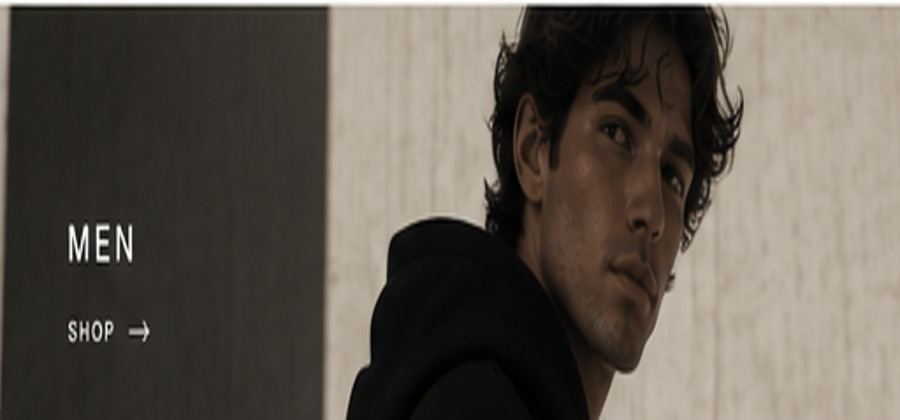
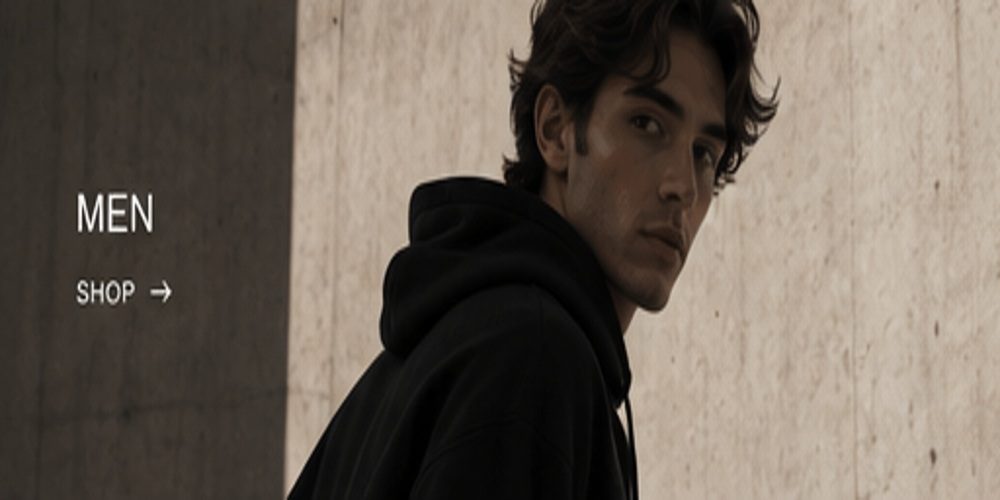
Add files via upload

diff --git a/styles.css b/styles.css
@@ -1,1 +1,1 @@
-*{box-sizing:border-box}html{scroll-behavior:smooth}body{margin:0;background:#f5f4ef;color:#0b0b0b;font-family:Arial,Helvetica,sans-serif}a{text-decoration:none;color:inherit}button{font:inherit}header{height:64px;padding:0 3vw;display:grid;grid-template-columns:1fr 2fr 1fr;align-items:center;background:#f5f4ef;position:sticky;top:0;z-index:30}.brand{font-size:19px;font-weight:900;letter-spacing:6px}nav{display:flex;justify-content:center;gap:28px;font-size:9px;letter-spacing:1.2px}.tools{display:flex;justify-content:flex-end;gap:18px}.tools button{border:0;background:none;font-size:9px;letter-spacing:1px}.hamb{font-size:16px!important}.hero{height:calc(100vh - 64px);min-height:650px;position:relative;background:#222;overflow:hidden}.hero>img{width:100%;height:100%;object-fit:cover;object-position:center}.hero:after{content:"";position:absolute;inset:0;background:linear-gradient(90deg,#0009,transparent 48%,#0001)}.overlay{position:absolute;z-index:2;left:11.5%;top:48%;transform:translateY(-50%);color:white}.overlay small{font-size:8px;letter-spacing:2px}.overlay h1{font-weight:400;font-size:clamp(58px,5vw,96px);line-height:.87;letter-spacing:-4px;margin:18px 0}.overlay p{font-size:9px;letter-spacing:2px}.overlay a{display:inline-block;background:white;color:#111;padding:15px 30px;margin-top:16px;font-size:9px;letter-spacing:1px}.intro{padding:65px 7vw;display:grid;grid-template-columns:2fr 1fr;align-items:end}.intro h2{font-size:clamp(35px,3.4vw,62px);line-height:.95;font-weight:400;letter-spacing:-2px;margin:0}.intro p{font-size:10px;line-height:1.7}.shop{padding:20px 2vw 75px}.shop-title{display:flex;justify-content:space-between;align-items:center}.shop-title h2{font-size:18px;letter-spacing:1px}.shop-title a{font-size:9px}.products{display:grid;grid-template-columns:repeat(6,1fr);gap:6px}.products article{position:relative}.products img{display:block;width:100%;height:330px;object-fit:cover;background:#ddd}.products article>div{display:flex;justify-content:space-between;padding:11px 3px 4px;font-size:9px}.add{position:absolute;right:9px;bottom:42px;border:0;background:white;padding:9px 11px;font-size:8px;opacity:0;transition:.2s}.products article:hover .add{opacity:1}.categories{display:grid;grid-template-columns:repeat(3,1fr);height:520px}.categories a{background-size:cover;background-position:center;position:relative;display:flex;align-items:flex-end;padding:35px;color:white}.categories a:after{content:"";position:absolute;inset:0;background:#0004}.categories span{position:relative;z-index:2;font-size:24px;letter-spacing:3px}.categories small{display:block;font-size:8px;margin-top:14px;letter-spacing:2px}.manifesto{background:#111;color:#f5f4ef;padding:120px 5vw}.manifesto small{letter-spacing:3px;font-size:8px}.manifesto h2{font-size:clamp(70px,9vw,160px);line-height:.8;letter-spacing:-7px;margin:35px 0 0}footer{padding:45px 3vw;display:grid;grid-template-columns:2fr 1fr 1fr;align-items:end;min-height:140px;font-size:9px;letter-spacing:1px}footer b{font-size:28px;letter-spacing:6px}@media(max-width:1100px){.products{grid-template-columns:repeat(3,1fr)}.products img{height:420px}}@media(max-width:800px){header{grid-template-columns:1fr 1fr}nav{display:none}.tools button:not(.hamb):not(:nth-last-child(2)){display:none}.intro{grid-template-columns:1fr;gap:30px}.categories{grid-template-columns:1fr;height:auto}.categories a{height:420px}.overlay{left:7%}.products{grid-template-columns:repeat(2,1fr)}footer{grid-template-columns:1fr;gap:20px}}@media(max-width:520px){.hero{min-height:650px}.overlay h1{font-size:56px}.products{grid-template-columns:1fr}.products img{height:auto}.intro{padding:60px 20px}.manifesto{padding:90px 20px}.manifesto h2{font-size:58px;letter-spacing:-4px}}
+*{box-sizing:border-box}html{scroll-behavior:smooth}body{margin:0;background:#f5f4ef;color:#090909;font-family:Arial,sans-serif}a{text-decoration:none;color:inherit;cursor:pointer}header{height:62px;padding:0 5%;display:grid;grid-template-columns:1fr 2fr 1fr;align-items:center;position:sticky;top:0;z-index:10;background:#f5f4ef}.brand{font-size:18px;font-weight:900;letter-spacing:6px}nav{display:flex;justify-content:center;gap:28px;font-size:9px}.tools{text-align:right;font-size:9px}.hero{height:calc(100vh - 62px);min-height:650px;position:relative;overflow:hidden;background:#222;color:#fff}.hero>img{width:100%;height:100%;object-fit:cover;object-position:center}.hero:after{content:"";position:absolute;inset:0;background:linear-gradient(90deg,#0008,transparent 52%,#0002)}.copy{position:absolute;z-index:2;left:5.2%;top:46%;transform:translateY(-50%)}.copy small{font-size:9px;letter-spacing:1px}.copy h1{font-size:clamp(62px,5vw,100px);font-weight:400;line-height:.9;letter-spacing:-4px;margin:20px 0}.copy p{font-size:10px;letter-spacing:1px}.copy a{display:inline-block;background:#fff;color:#111;padding:15px 24px;margin-top:15px;font-size:10px}.built{position:absolute;z-index:2;right:7%;bottom:11%;line-height:1.5;font-size:13px}.intro{padding:42px 5%;display:grid;grid-template-columns:2fr 1fr;align-items:center}.intro h2{font-size:clamp(32px,2.7vw,52px);font-weight:400;line-height:.95;letter-spacing:-2px}.intro p,.intro a{font-size:9px;line-height:1.7}.new{padding:10px 2.5% 35px}.title{display:flex;justify-content:space-between;align-items:center}.title h2{font-size:17px}.title a{font-size:8px}.products{display:grid;grid-template-columns:repeat(6,1fr);gap:7px}.products article{position:relative}.products img{width:100%;height:230px;object-fit:cover;display:block}.products p,.products b{font-size:8px;margin:8px 0 0;display:block}.products button{position:absolute;right:8px;top:195px;width:27px;height:27px;border:0;border-radius:50%;background:#fff;font-size:17px;cursor:pointer}.cats{display:grid;grid-template-columns:repeat(3,1fr);height:430px}.cats a{background-size:cover;background-position:center;position:relative;padding:36px;color:#fff;display:flex;align-items:end}.cats a:after{content:"";position:absolute;inset:0;background:#0003}.cats span{position:relative;z-index:2;font-size:22px}.cats small{display:block;font-size:9px;margin-top:14px}.end{padding:110px 5%;background:#111;color:#f5f4ef}.end small{font-size:8px;letter-spacing:3px}.end h2{font-size:clamp(65px,9vw,155px);line-height:.8;letter-spacing:-7px;margin:30px 0 0}footer{height:140px;padding:40px 4%;display:grid;grid-template-columns:2fr 1fr 1fr;align-items:end;font-size:8px}footer b{font-size:27px;letter-spacing:6px}@media(max-width:1000px){nav{display:none}header{grid-template-columns:1fr 1fr}.products{grid-template-columns:repeat(3,1fr)}.products img{height:340px}.cats{height:auto;grid-template-columns:1fr}.cats a{height:400px}}@media(max-width:600px){.tools{font-size:0}.tools:after{content:"BAG (" attr(data-bag) ")　☰";font-size:9px}.hero{min-height:650px}.copy{left:7%}.copy h1{font-size:58px}.intro{grid-template-columns:1fr}.products{grid-template-columns:1fr 1fr}.products img{height:280px}.end h2{font-size:57px;letter-spacing:-4px}footer{grid-template-columns:1fr;gap:16px;height:auto}}

diff --git a/index.html b/index.html
@@ -1,17 +1,15 @@
-<!doctype html><html lang="en"><head><meta charset="utf-8"><meta name="viewport" content="width=device-width,initial-scale=1">
-<title>MILCOLK — The New Uniform</title><link rel="stylesheet" href="styles.css"></head><body>
-<header><a class="brand" href="#">MILCOLK</a><nav><a href="#new">NEW IN</a><a href="#men">MEN</a><a href="#women">WOMEN</a><a href="#essentials">ESSENTIALS</a><a href="#story">COLLECTIONS</a></nav><div class="tools"><button>SEARCH</button><button>ACCOUNT</button><button>BAG (<span id="bag">0</span>)</button><button class="hamb">☰</button></div></header>
-<section class="hero"><img src="assets/hero.jpg" alt="MILCOLK The New Uniform"><div class="overlay"><small>FALL / WINTER 2026</small><h1>THE NEW<br>UNIFORM</h1><p>CLOTHING FOR A CLEARER MIND.</p><a href="#new">SHOP NOW →</a></div></section>
-<section class="intro" id="story"><h2>Designed for the everyday.<br>Defined by identity.</h2><p>MILCOLK is a modern clothing label focused on quality, simplicity and purpose.<br>Less noise, more identity.</p></section>
-<section id="new" class="shop"><div class="shop-title"><h2>NEW IN</h2><a href="#">VIEW ALL →</a></div>
-<div class="products">
-<article><img src="assets/product-1.jpg"><div><span>ESSENTIAL HOODIE</span><b>$85</b></div><button class="add">ADD +</button></article>
-<article><img src="assets/product-2.jpg"><div><span>CLASSIC TEE</span><b>$45</b></div><button class="add">ADD +</button></article>
-<article><img src="assets/product-3.jpg"><div><span>SIGNATURE SWEATPANTS</span><b>$75</b></div><button class="add">ADD +</button></article>
-<article><img src="assets/product-4.jpg"><div><span>ESSENTIAL CAP</span><b>$35</b></div><button class="add">ADD +</button></article>
-<article><img src="assets/product-5.jpg"><div><span>LIGHTWEIGHT JACKET</span><b>$120</b></div><button class="add">ADD +</button></article>
-<article><img src="assets/product-6.jpg"><div><span>KNIT SWEATER</span><b>$95</b></div><button class="add">ADD +</button></article>
+<!doctype html><html lang="en"><head><meta charset="utf-8"><meta name="viewport" content="width=device-width,initial-scale=1"><title>MILCOLK — The New Uniform</title><link rel="stylesheet" href="styles.css"></head><body>
+<header><a class="brand">MILCOLK</a><nav><a href="#new">NEW IN</a><a href="#men">MEN</a><a href="#women">WOMEN</a><a href="#essentials">ESSENTIALS</a><a href="#collections">COLLECTIONS</a></nav><div class="tools">⌕ SEARCH　♙ ACCOUNT　♧ BAG (<span id="bag">0</span>)　☰</div></header>
+<section class="hero"><img src="assets/hero.jpg"><div class="copy"><small>FALL WINTER 2026</small><h1>THE NEW<br>UNIFORM</h1><p>CLOTHING FOR A CLEARER MIND.</p><a href="#new">SHOP NOW　→</a></div><div class="built">BUILT<br>DIFFERENT.<br>FOR MORE.</div></section>
+<section class="intro"><h2>Designed for the everyday.<br>Defined by identity.</h2><div><p>MILCOLK is a modern clothing label focused on<br>quality, simplicity and purpose. Less noise, more identity.</p><a href="#collections">—　OUR STORY　→</a></div></section>
+<section id="new" class="new"><div class="title"><h2>NEW IN</h2><a>VIEW ALL　→</a></div><div class="products">
+<article><img src="assets/product1.jpg"><button>+</button><p>ESSENTIAL HOODIE</p><b>$85</b></article>
+<article><img src="assets/product2.jpg"><button>+</button><p>CLASSIC TEE</p><b>$45</b></article>
+<article><img src="assets/product3.jpg"><button>+</button><p>SIGNATURE SWEATPANTS</p><b>$75</b></article>
+<article><img src="assets/product4.jpg"><button>+</button><p>ESSENTIAL CAP</p><b>$35</b></article>
+<article><img src="assets/product5.jpg"><button>+</button><p>LIGHTWEIGHT JACKET</p><b>$120</b></article>
+<article><img src="assets/product6.jpg"><button>+</button><p>KNIT SWEATER</p><b>$95</b></article>
 </div></section>
-<section class="categories"><a id="men" style="background-image:url('assets/men.jpg')"><span>MEN<small>SHOP →</small></span></a><a id="women" style="background-image:url('assets/women.jpg')"><span>WOMEN<small>SHOP →</small></span></a><a id="essentials" style="background-image:url('assets/essentials.jpg')"><span>ESSENTIALS<small>SHOP →</small></span></a></section>
-<section class="manifesto"><small>MILCOLK® / NEW YORK / 2026</small><h2>LESS NOISE.<br>MORE IDENTITY.</h2></section>
-<footer><b>MILCOLK</b><p>CLOTHING FOR A BRIGHTER YOU</p><p>INSTAGRAM &nbsp; TIKTOK &nbsp; CONTACT</p></footer><script src="script.js"></script></body></html>
+<section id="collections" class="cats"><a id="men" style="background-image:url(assets/men.jpg)"><span>MEN<small>SHOP　→</small></span></a><a id="women" style="background-image:url(assets/women.jpg)"><span>WOMEN<small>SHOP　→</small></span></a><a id="essentials" style="background-image:url(assets/essentials.jpg)"><span>ESSENTIALS<small>SHOP　→</small></span></a></section>
+<section class="end"><small>MILCOLK® / 2026</small><h2>LESS NOISE.<br>MORE IDENTITY.</h2></section><footer><b>MILCOLK</b><span>CLOTHING FOR A BRIGHTER YOU</span><span>INSTAGRAM　TIKTOK　CONTACT</span></footer>
+<script src="script.js"></script></body></html>

diff --git a/script.js b/script.js
@@ -1,1 +1,1 @@
-let n=0;const bag=document.getElementById('bag');document.querySelectorAll('.add').forEach(b=>b.onclick=()=>{bag.textContent=++n;b.textContent='ADDED ✓';setTimeout(()=>b.textContent='ADD +',900)});
+let n=0;document.querySelectorAll('.products button').forEach(b=>b.onclick=()=>{n++;document.getElementById('bag').textContent=n;b.textContent='✓';setTimeout(()=>b.textContent='+',700)});

diff --git a/README.md b/README.md
@@ -1,15 +1,18 @@
-MILCOLK FIXED PRO
+MILCOLK — APPROVED FINAL BUILD
 
-IMPORTANT: upload ALL files AND the complete assets folder to the repository root.
-Expected structure:
+Upload EVERYTHING in this ZIP to the ROOT of the milcolk-store repository.
+
+Required structure:
 index.html
 styles.css
 script.js
-assets/hero.jpg
-assets/product-1.jpg ... product-6.jpg
-assets/men.jpg
-assets/women.jpg
-assets/essentials.jpg
+assets/
+  hero.jpg
+  product1.jpg ... product6.jpg
+  men.jpg
+  women.jpg
+  essentials.jpg
 
-The images are local and referenced with relative paths for GitHub Pages.
-Prices/product details are demo content until finalized.
+Do not upload only index.html. The assets folder is required.
+
+Product names/prices are presentation placeholders until MILCOLK finalizes commercial details.
